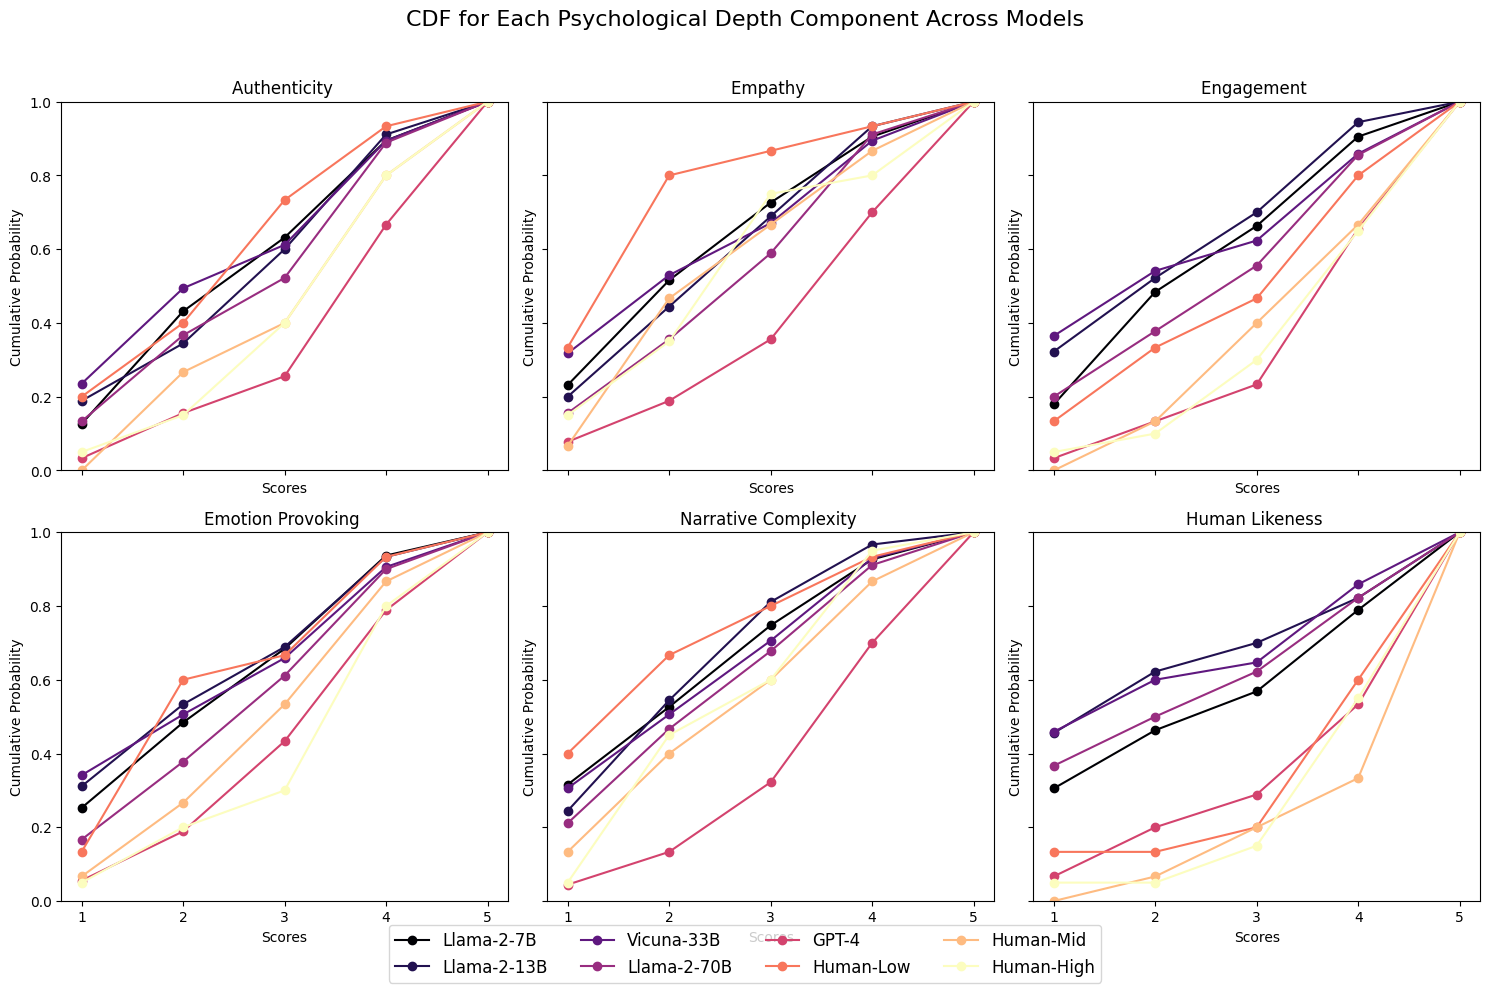
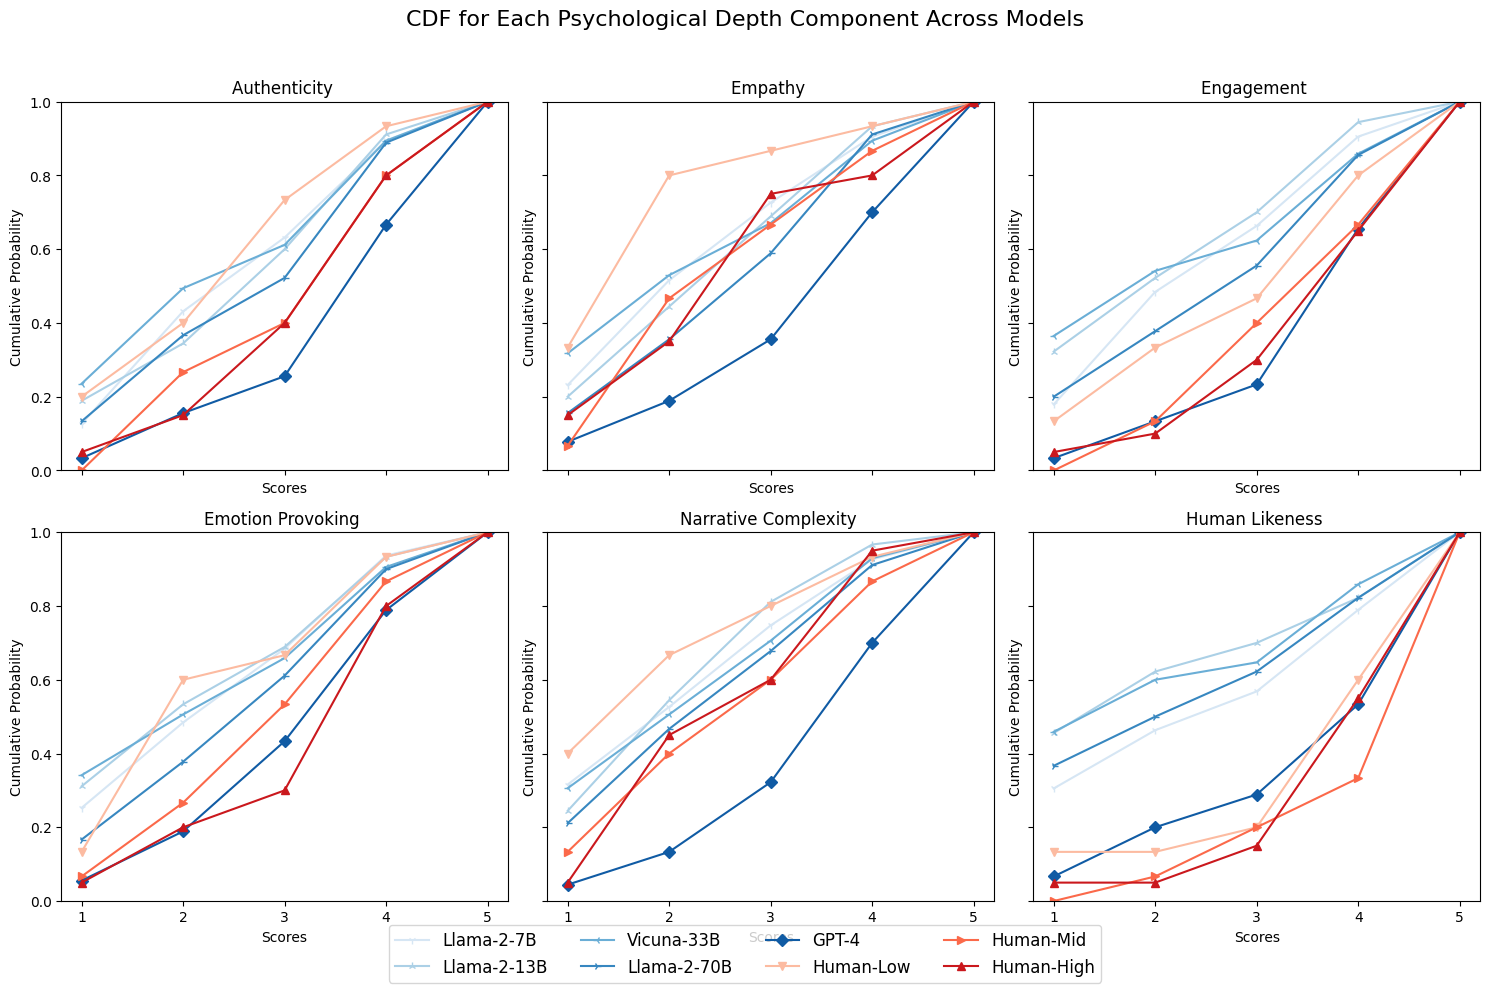
changing colors and adding unique markers

diff --git a/story_eval/visualize.py b/story_eval/visualize.py
@@ -57,12 +57,12 @@ def plot_spider(df, models, title, save_path=None, sort_order=None):
     else:
         plt.show()
 
-def plot_model_cdf(data, model, column, ax, color):
+def plot_model_cdf(data, model, column, ax, color, marker):
     model_data = data[data['model_short'] == model]
     values, base = np.histogram(model_data[column], bins=np.arange(1, 7), density=True)
     cumulative = np.cumsum(values)
     
-    ax.plot(base[:-1], cumulative, marker='o', label=model, color=color)
+    ax.plot(base[:-1], cumulative, label=model, marker=marker, color=color)
     ax.set_title(f'{column.replace("_", " ").replace("score", "").title()}')
     ax.set_xlabel('Scores')
     ax.set_ylabel('Cumulative Probability')
@@ -70,6 +70,9 @@ def plot_model_cdf(data, model, column, ax, color):
     ax.set_ylim([0, 1])
 
 def plot_cdf(df, models, title, nrows, ncols, save_path, sort_order):
+
+    # Defining a list of unique markers for the models
+    markers = ['1', '2', '3', '4', 'D', 'v', '>', '^']
 
     # Filter data for specific models
     filtered_data = df[df["model_short"].isin(models)]
@@ -79,7 +82,10 @@ def plot_cdf(df, models, title, nrows, ncols, save_path, sort_order):
 
     # Prepare data and labels for the radar chart
     score_columns = [col for col in sorted_df.columns if col.endswith('_score')]
-    colors = plt.cm.magma(np.linspace(0, 1, len(models)))
+    
+    llm_colors = plt.cm.Blues(np.linspace(0, 1, 7))[1:-1]
+    human_colors = plt.cm.Reds(np.linspace(0, 1, 5))[1:-1]
+    colors = np.concatenate((llm_colors, human_colors), axis=0)
 
     # Creating the updated plots
     fig, axes = plt.subplots(nrows=nrows, ncols=ncols, figsize=(5 * ncols, 5 * nrows), sharex='col', sharey='row')
@@ -93,8 +99,8 @@ def plot_cdf(df, models, title, nrows, ncols, save_path, sort_order):
 
     # Plotting the CDF for each component, including all models in the specified order
     for i, column in enumerate(score_columns):
-        for model, color in zip(models, colors):
-            plot_model_cdf(sorted_df, model, column, axes[i], color)
+        for model, color, marker in zip(models, colors, markers):
+            plot_model_cdf(sorted_df, model, column, axes[i], color, marker)
 
     # Adjust layout and add a combined legend
     plt.tight_layout(rect=[0, 0.03, 1, 0.96])
